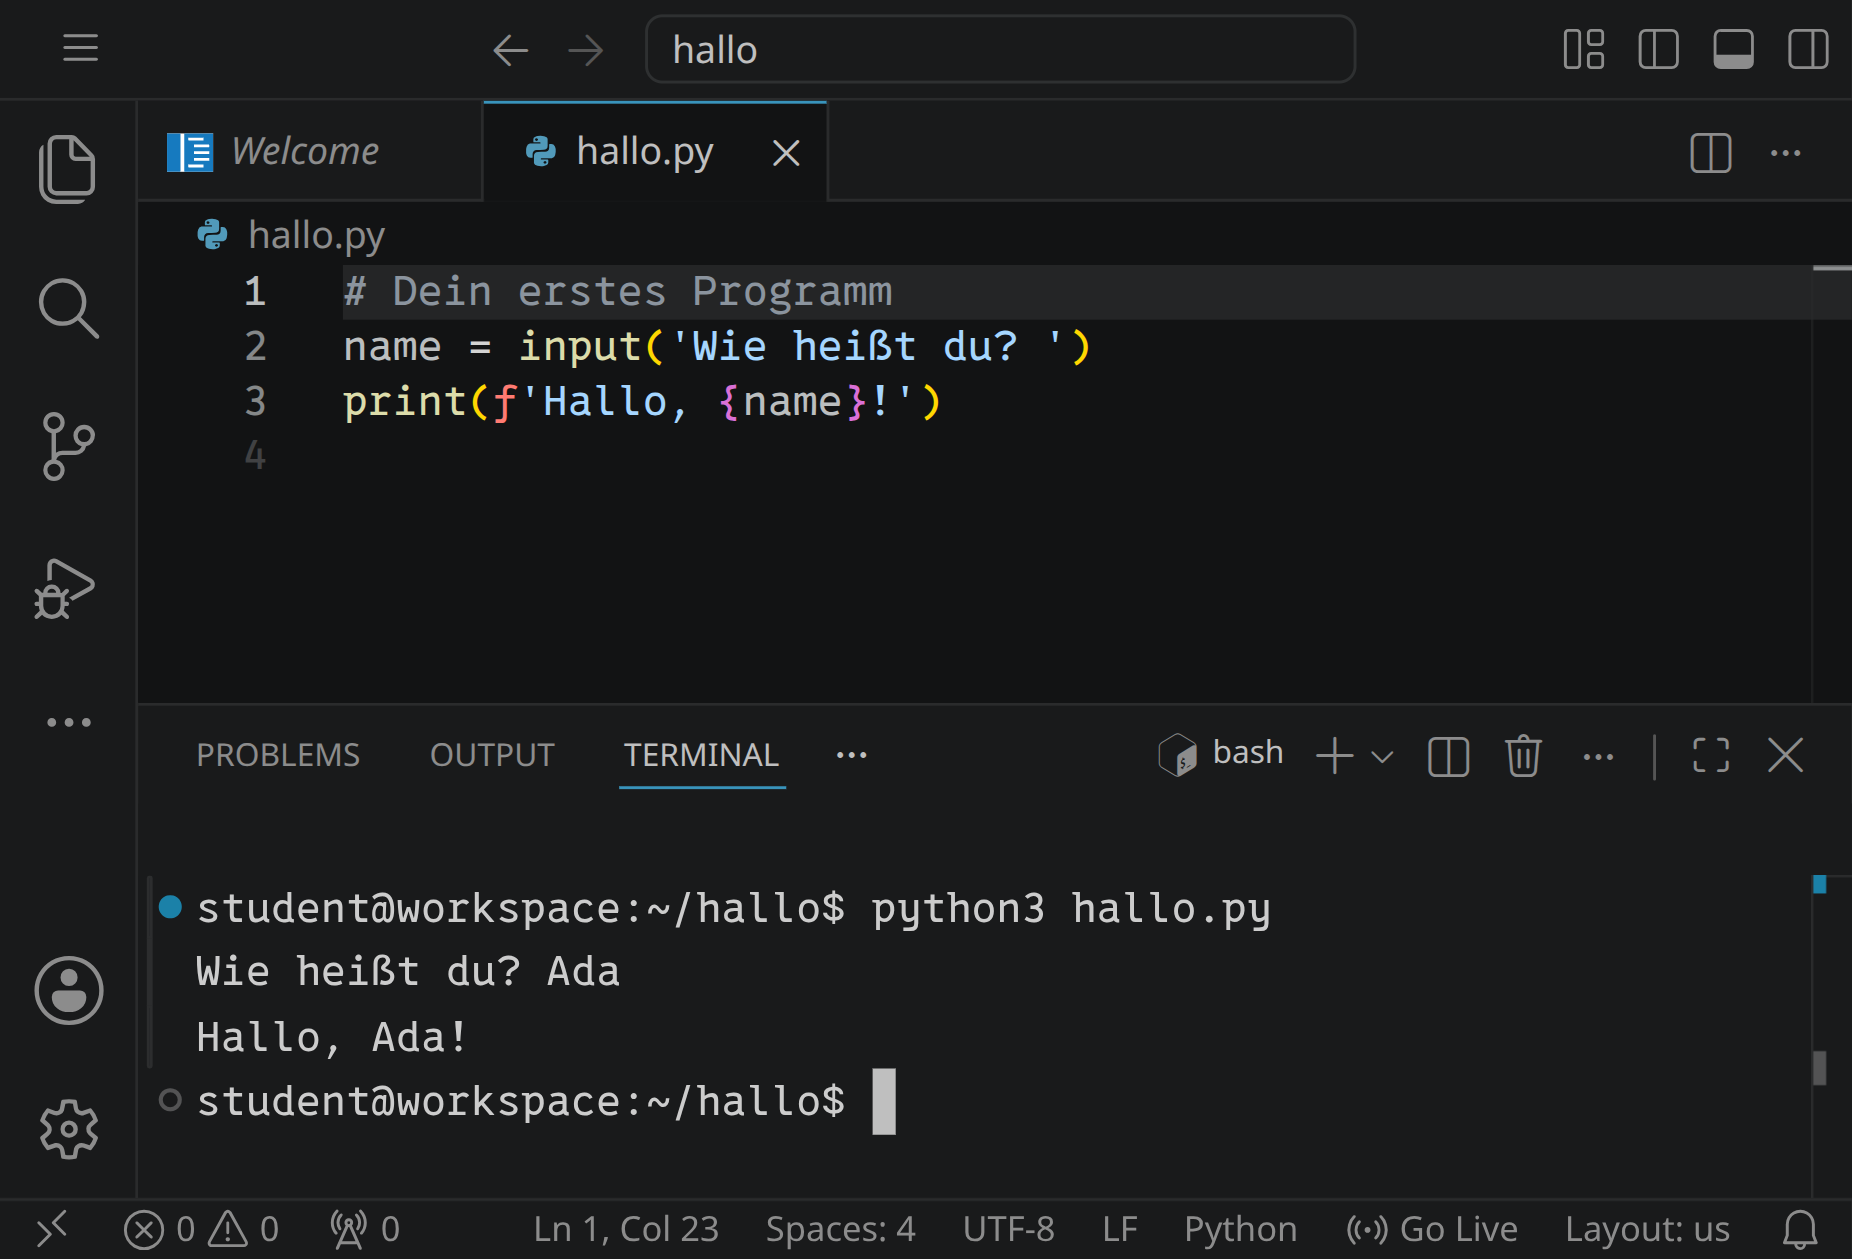
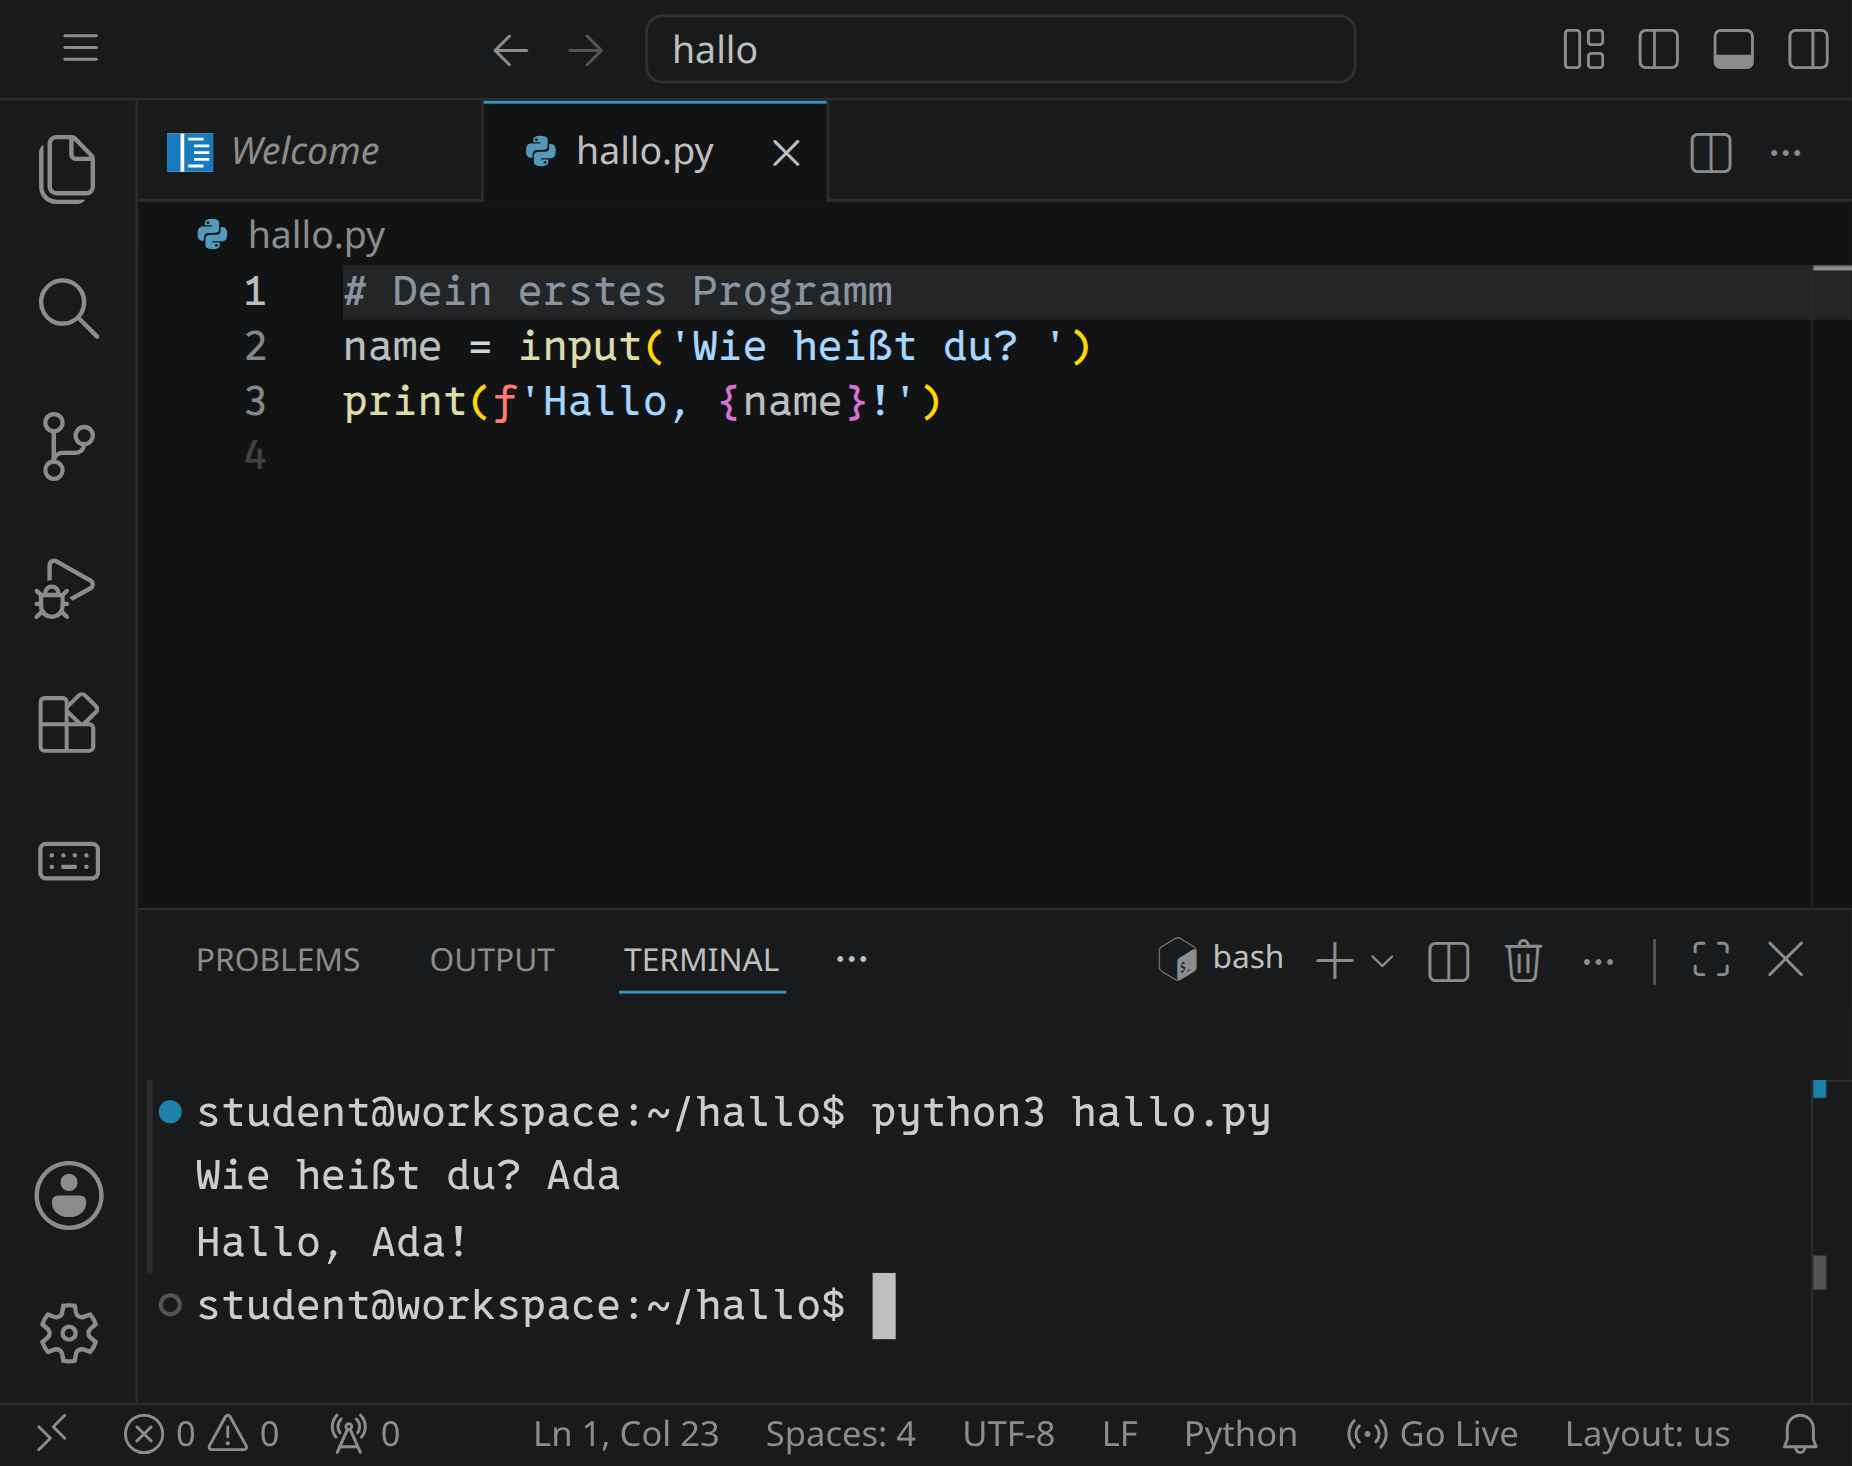
Front page: Workspace picture as tall as the text

diff --git a/src/content/about/about.md b/src/content/about/about.md
@@ -54,7 +54,7 @@ variants: dark
 <!-- tutorial-screenshot
 # Für die Startseite (index.html, front_picture_html): ein aufgeräumter Workspace mit einem kleinen Programm und einem Lauf im Terminal.
 # zoom: Das Bild ist auf der Startseite nur etwa halb so breit wie die anderen Screenshots; etwas größer gezoomt bleibt es lesbar.
-viewport: 1029x700
+viewport: 1029x815
 zoom: 1.6
 write-file: hallo/hallo.py <- file:hallo.py
 press: Control+K
